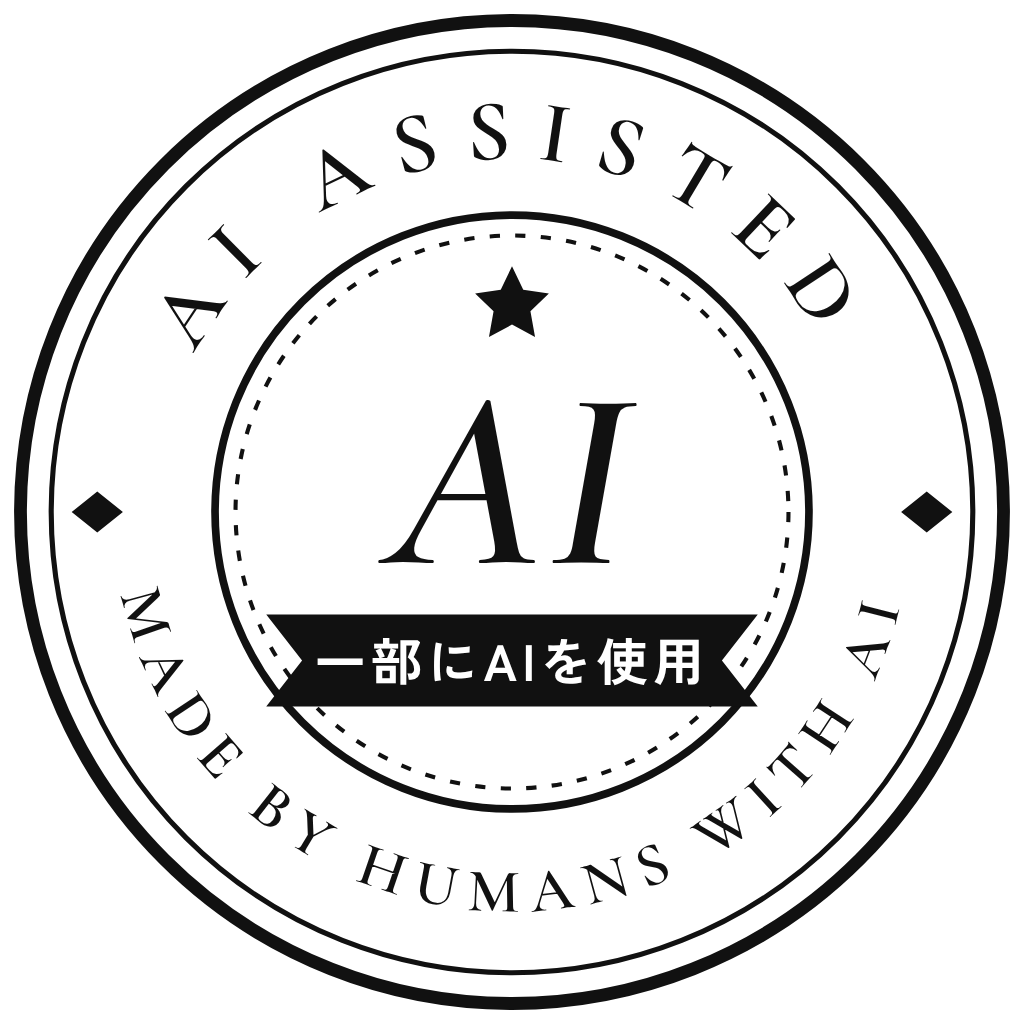
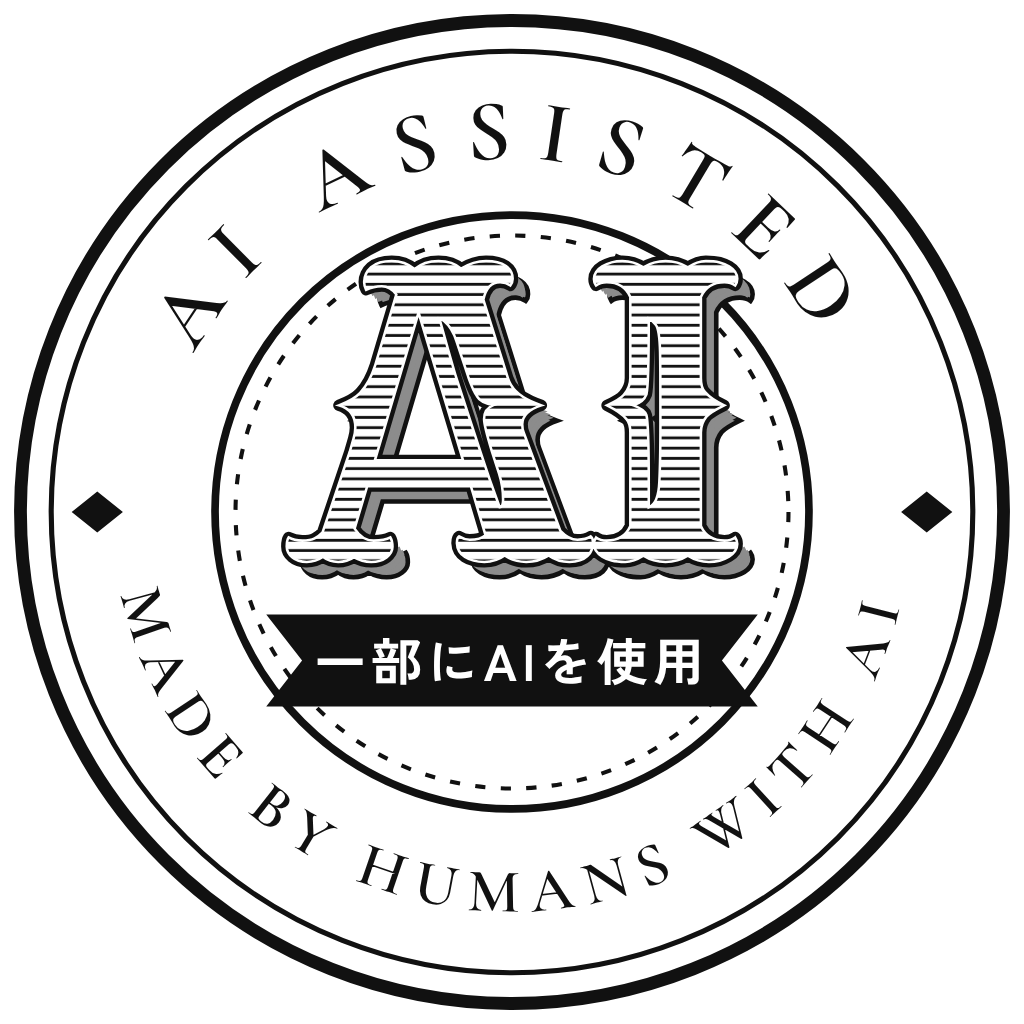
AI使用マークの「AI」をヴィンテージ書体（Rye）＋彫刻線・立体の影に変更、単体ファイルも作り直し
Claude-Session: https://claude.ai/code/session_01GicF4CNN6PYv9GYgroBVkR

Changed region(s): [[0.2812, 0.25, 0.75, 0.5625]]

diff --git a/app/components/AiMark.tsx b/app/components/AiMark.tsx
@@ -1,23 +1,32 @@
 // ヴィンテージ風の「AI使用マーク」。どのサイト・印刷物でも使えるよう、文字と色は差し替え可能。
-// 単体のSVGファイル版：/ai-mark/ai-mark-gold.svg ほか（public/ai-mark/）
+// 中央の「AI」は書体 Rye（SIL Open Font License）の字形をパス化したもの。彫刻風の横線と立体の影つき。
+// 単体のファイル版：public/ai-mark/（PNG・SVG）
 type Props = {
   size?: number;
-  /** 線と文字の色 */
+  /** 枠線と弧の文字の色 */
   color?: string;
-  /** リボン内の文字の色（ふつうは背景色） */
+  /** 「AI」の面の色 */
+  face?: string;
+  /** 「AI」の彫刻線・輪郭の色（ふつうは背景色） */
+  line?: string;
+  /** 「AI」の立体の影の色 */
+  accent?: string;
+  /** リボン内の文字の色 */
   ink?: string;
-  /** 上の弧の文字 */
   top?: string;
-  /** 下の弧の文字 */
   bottom?: string;
-  /** リボンの文字 */
   ribbon?: string;
   className?: string;
 };
 
+const AI_PATH = "M63.07 112.74Q61.69 113.75 59.91 113.75Q58.13 113.75 57.07 112.83Q56 111.91 56 110.72Q56 109.52 56.37 108.96Q57.46 109.59 59.05 109.59Q60.64 109.59 61.45 109.16Q62.25 108.73 63 107.98L68.31 92.23L69.06 89.64Q69.4 88.48 69.4 87.51Q69.4 84.1 66.18 83.17Q69.14 82.04 70.34 80.73Q72.21 78.68 73.29 75.31L77.41 61.5Q76.21 59.89 74.57 59.89Q72.92 59.89 71.5 60.6Q71.12 59.92 71.12 59.08Q71.12 58.24 71.48 57.49Q71.83 56.74 72.47 56.18Q73.89 54.98 76.51 54.98Q79.13 54.98 80.97 56.55Q82.84 54.98 85.63 54.98Q88.42 54.98 90.06 56.48Q92.46 54.98 94.93 54.98Q97.4 54.98 98.76 55.92Q100.13 56.85 100.13 58.46Q100.13 59.21 99.68 59.77Q98.82 59.14 97.66 59.14Q95.15 59.14 94.4 62.54L99.2 77.85Q100.09 80.73 103.69 82.34Q104.7 82.79 105.75 83.17Q102 84.4 102 86.87Q102 87.81 102.3 88.52L109.45 107.68Q111.1 109.41 112.78 109.41Q114.47 109.41 115.4 108.77Q115.81 109.07 115.81 109.89Q115.81 110.72 115.55 111.41Q115.29 112.1 114.73 112.63Q113.53 113.75 111.21 113.75Q108.89 113.75 107.17 112.48Q105.22 113.75 102.77 113.75Q100.32 113.75 98.56 112.51Q96.87 113.75 94.59 113.75Q92.31 113.75 90.81 112.79Q89.31 111.84 89.24 110.08Q89.24 109.03 89.65 108.77Q90.66 109.41 91.71 109.41Q93.92 109.41 94.82 108.51L91.97 98.96H71.72L69.25 107.24Q70.79 109.59 72.97 109.59Q75.16 109.59 76.25 108.96Q76.66 109.63 76.66 110.81Q76.66 111.99 75.5 112.87Q74.34 113.75 72.51 113.75Q70.67 113.75 69.14 112.81Q67.79 113.75 66.05 113.75Q64.31 113.75 63.07 112.74ZM90.44 93.91 81.75 65.05 73.22 93.91ZM97.59 103.08Q98.26 103.08 98.26 101.58Q98.26 98.96 97.47 96.49L96.05 92.11Q94.55 87.17 94.55 85.9Q94.52 83.8 96.39 83.13Q93.81 82.61 93.24 81.52Q92.98 81.07 92.81 80.81Q92.64 80.55 92.48 80.19Q92.31 79.84 92.08 79.27Q91.86 78.71 91.48 77.67L89.16 70.67Q88.34 68.05 86.73 66.7Q86.24 66.29 85.83 66.21Q88.34 75.27 89.13 77.81Q94.55 94.51 95.64 97.62ZM108.63 106.45 108.7 106.67ZM134.34 112.55Q132.43 113.75 130 113.75Q127.57 113.75 125.66 112.55Q123.75 113.75 122.12 113.75Q120.49 113.75 119.45 113.47Q118.4 113.19 117.61 112.7Q116 111.73 116 110.27Q116 109.52 116.41 108.96Q117.24 109.59 118.51 109.59Q121.84 109.59 123.11 106.75V88.45Q123.11 86.72 122.4 85.9Q121.28 84.52 118.55 83.17Q121.09 82.01 121.84 81.11Q123.11 79.65 123.11 77.81V62.02Q121.84 59.14 118.51 59.14Q117.24 59.14 116.41 59.77Q116 59.21 116 58.48Q116 57.75 116.43 57.12Q116.86 56.48 117.61 56.03Q119.33 54.98 121.56 54.98Q123.79 54.98 125.66 56.22Q127.61 54.98 130 54.98Q132.4 54.98 134.34 56.22Q136.21 54.98 137.86 54.98Q139.51 54.98 140.56 55.26Q141.6 55.54 142.39 56.03Q144 57 144 58.46Q144 59.21 143.59 59.77Q142.76 59.14 141.49 59.14Q138.16 59.14 136.89 62.02V77.81Q136.89 79.65 137.67 80.55Q138.91 82.01 141.45 83.17Q138.72 84.52 137.97 85.38Q136.89 86.72 136.89 88.45V106.75Q138.16 109.59 141.49 109.59Q142.76 109.59 143.59 108.96Q144 109.52 144 110.25Q144 110.98 143.57 111.62Q143.14 112.25 142.39 112.7Q140.67 113.75 138.46 113.75Q136.25 113.75 134.34 112.55ZM126.71 103.08Q128.58 102.37 128.77 98.18Q128.99 93.99 128.99 86.57Q128.99 79.16 128.97 76.71Q128.95 74.26 128.92 72.76Q128.8 68.34 128.07 67.43Q127.34 66.51 126.71 66.21Q126.71 79.24 126.26 81.03Q125.73 82.53 123.71 83.17Q125.96 83.95 126.26 85.08Q126.71 86.87 126.71 98.21Z";
+
 export default function AiMark({
   size = 96,
   color = "#d9a23b",
+  face = "#f3ead6",
+  line = "#1c2839",
+  accent = "#d9a23b",
   ink = "#1c2839",
   top = "AI ASSISTED",
   bottom = "MADE BY HUMANS WITH AI",
@@ -30,6 +39,11 @@ export default function AiMark({
       <defs>
         <path id={`${id}-top`} d="M 31 100 A 69 69 0 0 1 169 100" />
         <path id={`${id}-bot`} d="M 22 100 A 78 78 0 0 0 178 100" />
+        <path id={`${id}-ai`} d={AI_PATH} />
+        <pattern id={`${id}-eng`} width="4" height="2" patternUnits="userSpaceOnUse">
+          <rect width="4" height="2" fill={face} />
+          <rect y="1.25" width="4" height=".55" fill={line} />
+        </pattern>
       </defs>
       <g fill="none" stroke={color}>
         <circle cx="100" cy="100" r="96" strokeWidth="2.5" />
@@ -40,13 +54,19 @@ export default function AiMark({
       <g fill={color} fontFamily="'Cormorant Garamond', 'Times New Roman', serif" fontWeight="600">
         <text fontSize="17" letterSpacing="5"><textPath href={`#${id}-top`} startOffset="50%" textAnchor="middle">{top}</textPath></text>
         <text fontSize="12" letterSpacing="2.6"><textPath href={`#${id}-bot`} startOffset="50%" textAnchor="middle">{bottom}</textPath></text>
-        <text x="100" y="110" fontSize="50" textAnchor="middle" fontStyle="italic" letterSpacing="1">AI</text>
         <path d="M14 100 l5 -4 l5 4 l-5 4 z M176 100 l5 -4 l5 4 l-5 4 z" />
-        <path d="M100 52 l2.2 4.6 l5 .7 l-3.6 3.5 l.9 5 l-4.5 -2.4 l-4.5 2.4 l.9 -5 l-3.6 -3.5 l5 -.7 z" />
+      </g>
+      {/* 「AI」：立体の影 → 輪郭 → 彫刻線の面 */}
+      <g transform="translate(0,-4)">
+        {[3, 2.4, 1.8, 1.2].map((o) => (
+          <use key={o} href={`#${id}-ai`} x={o} y={o} fill={accent} stroke={line} strokeWidth={o === 3 ? 0.9 : 0} />
+        ))}
+        <use href={`#${id}-ai`} fill="none" stroke={line} strokeWidth="2.2" strokeLinejoin="round" />
+        <use href={`#${id}-ai`} fill={`url(#${id}-eng)`} stroke={face} strokeWidth=".5" />
       </g>
       <g>
         <path d="M52 120 h96 l-7 9 l7 9 h-96 l7 -9 z" fill={color} />
-        <text x="100" y="133" fontSize="10" textAnchor="middle" fill={ink} fontFamily="'Zen Kaku Gothic New', 'Hiragino Sans', 'Noto Sans JP', sans-serif" fontWeight="700" letterSpacing="1">{ribbon}</text>
+        <text x="100" y="133" fontSize={ribbon.length > 9 ? 8.5 : 10} textAnchor="middle" fill={ink} fontFamily="'Zen Kaku Gothic New', 'Hiragino Sans', 'Noto Sans JP', sans-serif" fontWeight="700" letterSpacing="1">{ribbon}</text>
       </g>
     </svg>
   );

diff --git a/docs/ai-mark.md b/docs/ai-mark.md
@@ -6,5 +6,6 @@
   - 色：gold（金・紺地向け）／navy（紺）／black（黒）／white（白・暗い背景向け）
   - リボン文字：日本語「一部にAIを使用」、`-en` は英語「PARTLY AI-MADE」
   - PNG は 1024×1024・背景透過。SVG は拡大しても劣化しない（文字はフォント指定のため、環境によって書体が変わる場合あり。確実に同じ見た目にしたいときは PNG を使う）
-- サイト内では `app/components/AiMark.tsx`（`top` / `bottom` / `ribbon` / `color` で文字と色を変更可能）
+- 中央の「AI」は、ヴィンテージ書体 Rye（Google Fonts・SIL Open Font License で商用利用可）の字形を図形（パス）にしたもの。彫刻風の横線と立体の影つき。どの環境でも同じ形で表示される
+- サイト内では `app/components/AiMark.tsx`（`top` / `bottom` / `ribbon` / `color` / `face` / `line` / `accent` で文字と色を変更可能）
 - 表示例：「本サイトの一部にAIを使用しています」と文章を添えて使う
